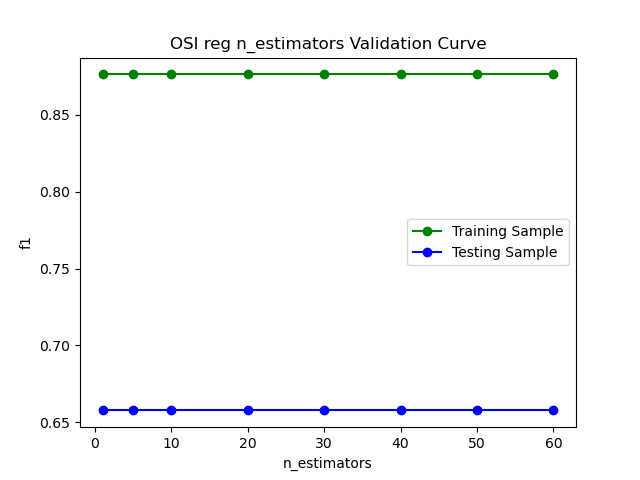
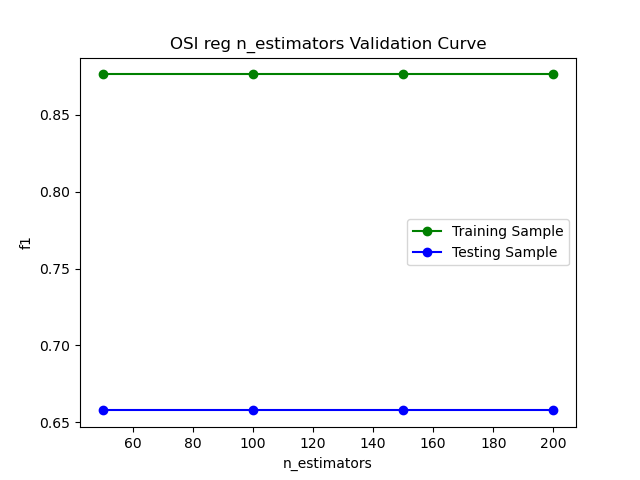
WIP

diff --git a/supervised_learning/clean.py b/supervised_learning/clean.py
@@ -76,7 +76,7 @@ def get_data_ford():
     X_test = df_test[['P6', 'E9', 'V10']]
     return X_train, y_train, X_test, y_test
 
-def plot_learning_curve(model,title,X_train,y_train,cv, filename,scoring):
+def plot_learning_curve(is_iterative, model,title,X_train,y_train,cv, filename,scoring):
     plt.figure()
     plt.title(title)
     plt.xlabel("Num Samples")
@@ -95,7 +95,7 @@ def plot_learning_curve(model,title,X_train,y_train,cv, filename,scoring):
     plt.plot(train_sizes,train_scores_mean,'o-',color='purple',label="Training Score")
     plt.legend()
     plt.savefig(filename)
-    return plt
+    plt.clf()
 
 
 def get_confusion_matrix(optimal_clf, X_test, y_test, title, filename):
@@ -136,18 +136,33 @@ def plot_validation_curve(run_type, clf_type, param, score, score_training, scor
     plt.savefig(run_type+'_'+smote_text+'_'+clf_type + '_' +param + '_' + score + '_validation_curve.png')
     plt.clf()
 
-def final_plots(run_type, clf, clf_type, cv, score, X_train, y_train, X_test, y_test, y_pred, smote):
+def plot_loss_curve(model, title, filename):
+    plt.xlabel("Num Iterations")
+    plt.ylabel("Loss")
+    plt.title(title)
+    plt.plot(model.loss_curve_)
+    plt.savefig(filename)
+    plt.clf()
+
+def final_plots(run_type, clf, clf_type, cv, score, X_train, y_train, X_test, y_test, y_pred, smote, is_iterative):
     smote_text = "SMOTE" if smote[0] else 'reg'
     print(clf_type + " on scoring method " + score + " Accuracy score: " + str(accuracy_score(y_test, y_pred)))
     print(clf_type + " on scoring method " + score + " f1 score: " + str(f1_score(y_test, y_pred)))
     get_confusion_matrix(clf, X_test, y_test, run_type+' '+smote_text+' Confusion Matrix (' + clf_type + ')',
                          run_type+'_'+smote_text+'_'+clf_type + '_' + score + '_confusion_matrix.png')
-    plot_learning_curve(clf, run_type+' '+smote_text+' Learning Curve (' + clf_type + ')', X_train, y_train, cv=cv, scoring=score,
+    plot_learning_curve(is_iterative, clf, run_type+' '+smote_text+' Learning Curve (' + clf_type + ')', X_train, y_train, cv=cv, scoring=score,
                         filename=run_type+'_'+smote_text+'_'+clf_type + '_' + score + '_Learning_Curve.png')
+    if is_iterative:
+        plot_loss_curve(clf, run_type+' '+smote_text+' Loss Curve (' + clf_type + ')',
+                        run_type+'_'+smote_text+'_'+clf_type + '_' + score + '_Loss_Curve.png')
 
-def initialize_a_param(clf, param, X_train, y_train, cv, clf_type, scoring):
+def initialize_a_param(clf, param, X_train, y_train, cv, clf_type, scoring, is_smote):
     param_name = list(param)[0]
     print("Initializing "+param_name+" with GridSearch")
+    if is_smote:
+        smote_param_name = "model__" + param_name
+        param[smote_param_name] = param.pop(param_name)
+        param_name = smote_param_name
     clf = GridSearchCV(
         clf,
         param_grid=param,
@@ -193,9 +208,9 @@ def get_classifier(clf_type, param_name, option, param2, smote):
     if param2 != None:
         param2_name = list(param2)[0]
         param2_val = param2[param2_name]
-        kwargs = {param_name: option, 'random_state': RANDOM_STATE, param2_name: param2_val, 'n_jobs':-1}
+        kwargs = {param_name: option, 'random_state': RANDOM_STATE, param2_name: param2_val}
     else:
-        kwargs = {param_name: option, 'random_state': RANDOM_STATE, 'n_jobs':-1}
+        kwargs = {param_name: option, 'random_state': RANDOM_STATE}
 
     return discover_classifier(clf_type, kwargs, smote)
 
@@ -220,6 +235,10 @@ def calc_validation_curve(clf_type, score, cv, X_train, y_train, X_test, y_test,
 
 def get_validation_curve(run_type, score, cv, clf_type, X_train, y_train, X_test, y_test, param1, param2, smote):
     param_name = list(param1)[0]
+    if smote[0] and param_name.startswith('model__'):
+        fixed_param_name = param_name[len('model__'):]
+        param1[fixed_param_name] = param1.pop(param_name)
+        param_name = fixed_param_name
     param_options = param1[param_name]
     print('\n----------------------\n')
     print('Executing validation curve for '+param_name)
@@ -234,7 +253,7 @@ def get_validation_curve(run_type, score, cv, clf_type, X_train, y_train, X_test
 def validate_two_params(param1, param2, clf, run_type, clf_type, scoring, cv,X_train, y_train, X_test, y_test, smote):
     param2_name = list(param2)[0]
     param1_name = list(param1)[0]
-    param_2_initial_val = initialize_a_param(clf, param2, X_train, y_train, cv, clf_type, scoring)
+    param_2_initial_val = initialize_a_param(clf, param2, X_train, y_train, cv, clf_type, scoring, smote[0])
     param2_initialized = {param2_name: param_2_initial_val}
     best_param1_value = get_validation_curve(run_type, scoring, cv, clf_type, X_train, y_train, X_test, y_test,
                                              param1, param2_initialized, smote)
@@ -252,14 +271,14 @@ def validate_two_params(param1, param2, clf, run_type, clf_type, scoring, cv,X_t
         if param2_best[list(param2_best)[0]] != best_param2_value:
             print("2nd CV iteration value: " + str(param2_best[list(param2_best)[0]]) + " != best value:" + str(best_param2_value))
 
-    kwargs = {param1_name: best_param1_value, param2_name: best_param2_value, 'random_state': RANDOM_STATE, 'n_jobs':-1}
+    kwargs = {param1_name: best_param1_value, param2_name: best_param2_value, 'random_state': RANDOM_STATE}
     return kwargs
 
 def validate_single_param(param1, param2, run_type, clf_type, scoring, cv,X_train, y_train, X_test, y_test, smote):
     best_param_value = get_validation_curve(run_type, scoring, cv, clf_type, X_train, y_train, X_test, y_test, param1,
                                             param2, smote)
     param_name = list(param1)[0]
-    kwargs = {param_name: best_param_value, 'random_state': RANDOM_STATE, 'n_jobs':-1}
+    kwargs = {param_name: best_param_value, 'random_state': RANDOM_STATE}
     return kwargs
 
 def get_optimal_hyperparameters(param2, clf_type, smote, param1, run_type, scoring, cv,X_train,y_train,X_test,y_test):
@@ -273,51 +292,56 @@ def get_optimal_hyperparameters(param2, clf_type, smote, param1, run_type, scori
 
 def run_dt(X_train, y_train, X_test, y_test, scoring, cv, smote, run_type, param1, param2):
     clf_type = 'decision_tree'
+    is_iterative = False
     kwargs = get_optimal_hyperparameters(param2, clf_type, smote, param1, run_type, scoring, cv,X_train,y_train,X_test,y_test)
     clf = dt.DecisionTreeClassifier(**kwargs)
     y_pred = calc_testing(clf, X_train, y_train, X_test)
-    final_plots(run_type, clf, clf_type, cv, scoring, X_train, y_train, X_test, y_test, y_pred, smote)
+    final_plots(run_type, clf, clf_type, cv, scoring, X_train, y_train, X_test, y_test, y_pred, smote, is_iterative)
 
 
 def run_ada(X_train, y_train, X_test, y_test, scoring, cv, smote, run_type, param1, param2):
     clf_type = 'ada_boost'
+    is_iterative = False
     kwargs = get_optimal_hyperparameters(param2, clf_type, smote, param1, run_type, scoring, cv, X_train, y_train,
                                          X_test, y_test)
     clf = AdaBoostClassifier(**kwargs)
     y_pred = calc_testing(clf, X_train, y_train, X_test)
-    final_plots(run_type, clf, clf_type, cv, scoring, X_train, y_train, X_test, y_test, y_pred, smote)
+    final_plots(run_type, clf, clf_type, cv, scoring, X_train, y_train, X_test, y_test, y_pred, smote, is_iterative)
 
 def run_nn(X_train, y_train, X_test, y_test, scoring, cv, smote, run_type, param1, param2):
     clf_type = 'neural_network'
+    is_iterative = True
     kwargs = get_optimal_hyperparameters(param2, clf_type, smote, param1, run_type, scoring, cv, X_train, y_train,
                                          X_test, y_test)
     clf = MLPClassifier(**kwargs)
     y_pred = calc_testing(clf, X_train, y_train, X_test)
-    final_plots(run_type, clf, clf_type, cv, scoring, X_train, y_train, X_test, y_test, y_pred, smote)
+    final_plots(run_type, clf, clf_type, cv, scoring, X_train, y_train, X_test, y_test, y_pred, smote, is_iterative)
 
 def run_svc(X_train, y_train, X_test, y_test, scoring, cv, smote, run_type, param1, param2):
     clf_type = 'svc'
+    is_iterative = True
     kwargs = get_optimal_hyperparameters(param2, clf_type, smote, param1, run_type, scoring, cv, X_train, y_train,
                                          X_test, y_test)
     clf = SVC(**kwargs)
     y_pred = calc_testing(clf, X_train, y_train, X_test)
-    final_plots(run_type, clf, clf_type, cv, scoring, X_train, y_train, X_test, y_test, y_pred, smote)
+    final_plots(run_type, clf, clf_type, cv, scoring, X_train, y_train, X_test, y_test, y_pred, smote, is_iterative)
 
 def run_knn(X_train, y_train, X_test, y_test, scoring, cv, smote, run_type, param1, param2):
     clf_type = 'knn'
+    is_iterative = False
     kwargs = get_optimal_hyperparameters(param2, clf_type, smote, param1, run_type, scoring, cv, X_train, y_train,
                                          X_test, y_test)
     if 'random_state' in kwargs: del kwargs['random_state']
     clf = KNeighborsClassifier(**kwargs)
     y_pred = calc_testing(clf, X_train, y_train, X_test)
-    final_plots(run_type, clf, clf_type, cv, scoring, X_train, y_train, X_test, y_test, y_pred, smote)
+    final_plots(run_type, clf, clf_type, cv, scoring, X_train, y_train, X_test, y_test, y_pred, smote, is_iterative)
 
 
 def run_shoppers(dataroot):
     X_train, y_train, X_test, y_test = get_data_OSI()
     scoring = 'f1'
     cross_val_folds = 10
-    smote = (False,0.2,0.6)
+    smote = (False,0.3,0.6)
     run_type = 'OSI'
     # run_dt(
     #     X_train,
@@ -331,18 +355,6 @@ def run_shoppers(dataroot):
     #     {'max_depth': [1,2,3,4,5,6,7,8,9,10,15,20]},
     #     None
     # )
-    # run_ada(
-    #     X_train,
-    #     y_train,
-    #     X_test,
-    #     y_test,
-    #     scoring,
-    #     cross_val_folds,
-    #     smote,
-    #     run_type,
-    #     {'n_estimators': [1,5,10, 20, 30, 40, 50, 60]},
-    #     {'learning_rate': [0.0001, 0.001, 0.01]}
-    # )
     # run_nn(
     #     X_train,
     #     y_train,
@@ -354,10 +366,12 @@ def run_shoppers(dataroot):
     #     run_type,
     #     #(10,10,10) = 3 hidden layers with 10 units, (10,) = 1 hidden layer with 10 units
     #     #had to play with the below numbers a lot
-    #     {'hidden_layer_sizes': [(100,), (150,), (200,), (100,100,100)]},  # validation_curve
-    #     {'activation': ['logistic', 'tanh', 'relu']},  # validation_curve
+    #     {'hidden_layer_sizes': [(100,), (150,), (200,), (100,100), (100,100,100)]},  # validation_curve
+    #     {'activation': ['logistic', 'tanh', 'relu', 'identity']},  # validation_curve
     # )
-    # run_svc(
+    #Weak learner puts more weight on the examples its getting wrong (showing they're the 'harder' examples)
+    # and as long as you're still getting better than chance error, it guarantees you'll get some of the harder examples right
+    # run_ada(
     #     X_train,
     #     y_train,
     #     X_test,
@@ -366,11 +380,10 @@ def run_shoppers(dataroot):
     #     cross_val_folds,
     #     smote,
     #     run_type,
-    #     {'C': [1,2,3,4,5,6,7,8,9,10]},  # validation_curve
-    #     #{'kernel': ['linear', 'poly', 'rbf', 'sigmoid', 'precomputed']},  # validation_curve
-    #     {'kernel': ['rbf', 'sigmoid']},  # validation_curve
+    #     {'n_estimators': [50, 100, 150, 200]},
+    #     {'learning_rate': [0.0001, 0.001, 0.01]}
     # )
-    run_knn(
+    run_svc(
         X_train,
         y_train,
         X_test,
@@ -379,10 +392,28 @@ def run_shoppers(dataroot):
         cross_val_folds,
         smote,
         run_type,
-        {'n_neighbors': [3,4,5,6,7,8,9,10]},  # validation_curve
-        {'weights': ['uniform', 'distance']},  # validation_curve
+        {'C': [1,2,3,4,5,6,7,8,9,10]},  # validation_curve
+        #{'kernel': ['linear', 'poly', 'rbf', 'sigmoid', 'precomputed']},  # validation_curve
+        {'kernel': ['rbf', 'sigmoid']},  # validation_curve
     )
+    #preference bias
+    #Locality: Near points are similar
+    #smoothness: averaging over nearest neighbors
+    #all features matter eqaully
+    # run_knn(
+    #     X_train,
+    #     y_train,
+    #     X_test,
+    #     y_test,
+    #     scoring,
+    #     cross_val_folds,
+    #     smote,
+    #     run_type,
+    #     {'n_neighbors': [3,4,5,6,7,8,9,10]},  # validation_curve
+    #     {'weights': ['uniform', 'distance']},  # validation_curve
+    # )
 
+#TODO: See if the distribution of trues to falses is the same between training and testing
 def run_ford(dataroot):
     X_train, y_train, X_test, y_test = get_data_ford()
     scoring = 'accuracy'
@@ -401,6 +432,20 @@ def run_ford(dataroot):
     #     {'max_depth': [3,5,9,10,12,14,16,18,20]},
     #     None
     # )
+    # run_nn(
+    #     X_train,
+    #     y_train,
+    #     X_test,
+    #     y_test,
+    #     scoring,
+    #     cross_val_folds,
+    #     smote,
+    #     run_type,
+    #     #(10,10,10) = 3 hidden layers with 10 units, (10,) = 1 hidden layer with 10 units
+    #     #had to play with the below numbers a lot
+    #     {'hidden_layer_sizes': [(100,), (150,), (200,), (100,100), (100,100,100)]},  # validation_curve
+    #     {'activation': ['logistic', 'tanh', 'relu', 'identity']},  # validation_curve
+    # )
     # run_ada(
     #     X_train,
     #     y_train,
@@ -408,8 +453,36 @@ def run_ford(dataroot):
     #     y_test,
     #     scoring,
     #     cross_val_folds,
-    #     smote
+    #     smote,
+    #     run_type,
+    #     {'n_estimators': [50, 100, 150, 200]},
+    #     {'learning_rate': [0.0001, 0.001, 0.01]}
     # )
+    # run_knn(
+    #     X_train,
+    #     y_train,
+    #     X_test,
+    #     y_test,
+    #     scoring,
+    #     cross_val_folds,
+    #     smote,
+    #     run_type,
+    #     {'n_neighbors': [3,4,5,6,7,8,9,10]},  # validation_curve
+    #     {'weights': ['uniform', 'distance']},  # validation_curve
+    # )
+    run_svc(
+        X_train,
+        y_train,
+        X_test,
+        y_test,
+        scoring,
+        cross_val_folds,
+        smote,
+        run_type,
+        {'C': [1,2,3,4,5,6,7,8,9,10]},  # validation_curve
+        #{'kernel': ['linear', 'poly', 'rbf', 'sigmoid', 'precomputed']},  # validation_curve
+        {'kernel': ['rbf', 'sigmoid']},  # validation_curve
+    )
 if __name__ == "__main__":
     passed_arg = sys.argv[1]
     if passed_arg.startswith('/'):
